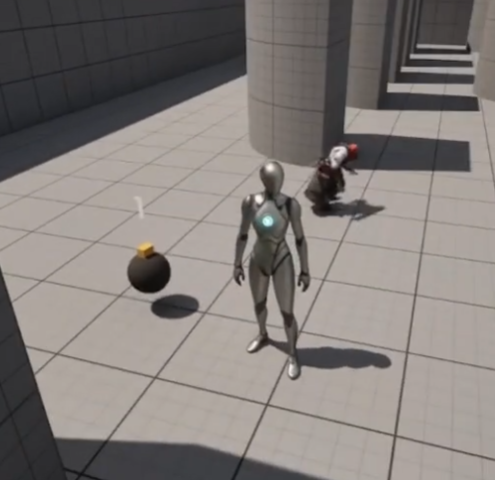
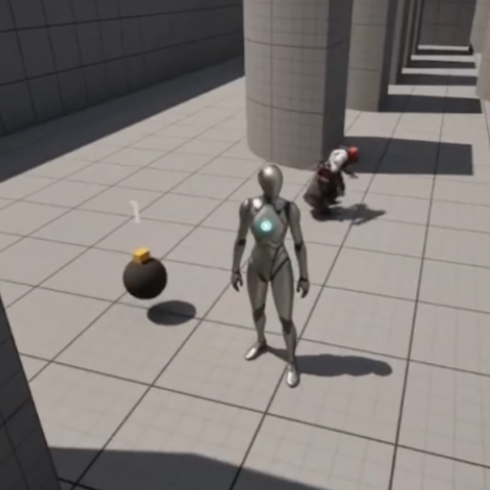
ia horror demo added

diff --git a/docs/assets/js/database.js b/docs/assets/js/database.js
@@ -26,15 +26,15 @@ const database = {
                 id: "IAT",
                 title: "Terror map tool",
                 language: "Unreal Engine C++",
-                image: "COM_Back.png",
-                filter: "tools"
+                image: "alien.png",
+                filter: "prototype"
             },
             {
                 id: "IAP",
                 title: "AI-based enemies",
                 language: "Unreal Engine C++",
                 image: "AI_Enemies.png",
-                filter: "tools"
+                filter: "prototype"
             },
             {
                 id: "YNK",
@@ -853,6 +853,7 @@ const database = {
                 links: {
                     videoYoutubeEmbedLink: "https://www.youtube.com/embed/2t5Vqq836cI?si=k7yndq8qyVj7Qj-J",
                     videoSectionTitle: "Video showcase",
+                    videoBtnLabel: "See video showcase",
                 },
             },
             sections: [
@@ -884,25 +885,51 @@ const database = {
         },
 
         {
-            id: "IAP",
+            id: "IAT",
             head: {
-                title: "AI-based enemies",
-                description: "In this project I implemented several AI-based enemies with different types of behaviour and different types of movement. The project is made with Unreal Engine AI tools like AI perception, EQS and CrowdManager."
+                title: "First person AI terror map with tool",
+                description: "Demo created with Unreal Engine C++."
             },
             body: {
-                image: "AI_Enemies.png",
-                title: "AI-based enemies - Individual project",
+                image: "alien.png",
+                title: "First person AI terror map with tool - Collaorative project",
                 technology: "Unreal Engine C++",
                 content: [
-                "Individual Unreal Engine project focused on designing and implementing multiple enemy archetypes with distinct behaviors and movement styles.",
-                "Enemies use Unreal AI tools such as AI Perception for sensing, EQS for decision making (cover, search points), and Crowd Manager for smooth navigation and avoidance in groups.",
-                "Includes patrol, investigate, chase and search states, with configurable parameters to tweak difficulty and responsiveness."
-                ],
+                "In this demo the map is generated from a png file, using a color code.",
+                "The demo has a tile-based movement, using hand made collisions without using the Unreal Engine collision system.",
+                "There is also an enemy controlled with different types of behaviours. The player has a cenital camera where can see the position of the enemy and can change the type of movement.",
+                "Also there is a tool for transform the map dynamically, changing the position of the walls. This tool is very useful for testing and for creating new maps quickly and to see how is the enemy reacting."
+            ],
                 links: {
-                    videoYoutubeEmbedLink: "https://www.youtube.com/embed/2t5Vqq836cI?si=k7yndq8qyVj7Qj-J",
+                    videoYoutubeEmbedLink: "https://www.youtube.com/embed/JGtWoDxTuUM?si=XmqHPDKhpylRzsy8",
+                    videoBtnLabel: "See video showcase",
                     videoSectionTitle: "Video showcase",
                 },
             },
+            sections: [
+                {
+                    title: "Png map generation",
+                    paragraphs: [
+                        "The map is generated from a png file, using a color code. Each color represents a different type of tile, like walls, floor or safe zones.",
+                    ],
+                    image: "mapGeneration.gif"
+                },
+                {
+                    title: "Tile-based movement",
+                    paragraphs: [
+                        "The player movement is tile-based, and the collisions are hand made, without using the Unreal Engine collision system.",
+                        "This type of movement is very useful for this type of game, because it gives a lot of precision to the player and allows us to have more control over the movement and the collisions."
+                    ],
+                    image: "tileMovement.gif"
+                },
+                {
+                    title: "Cenital view and tooling",
+                    paragraphs: [
+                        "This view works as a debug view because the player can see the position of the enemy and can change the type of movement and the map distribution.",
+                    ],
+                    image: "cenitalTool.gif"
+                },
+            ]
         },
     ]
 }
